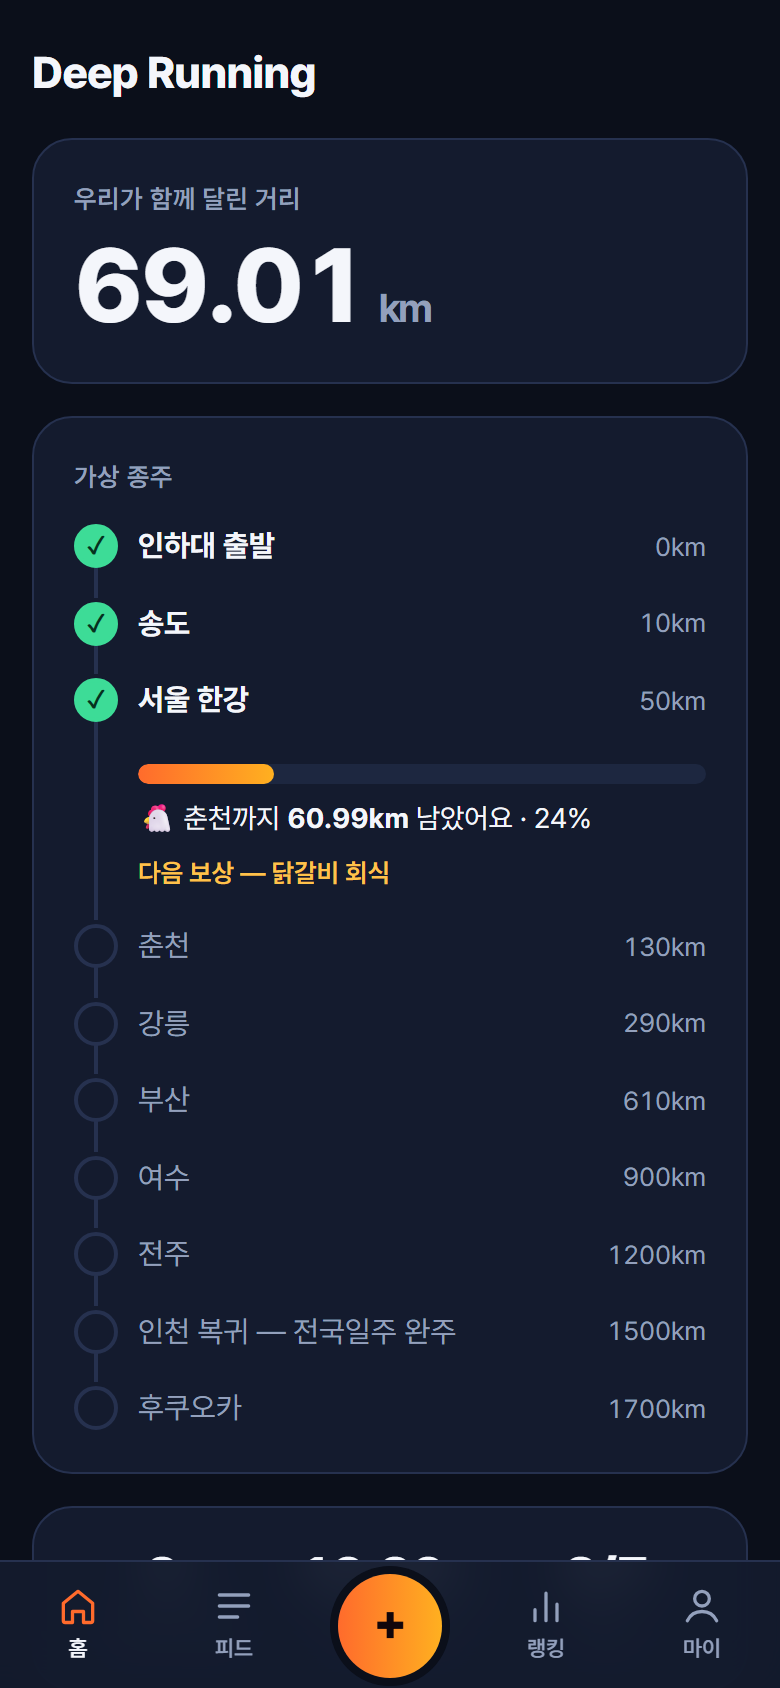
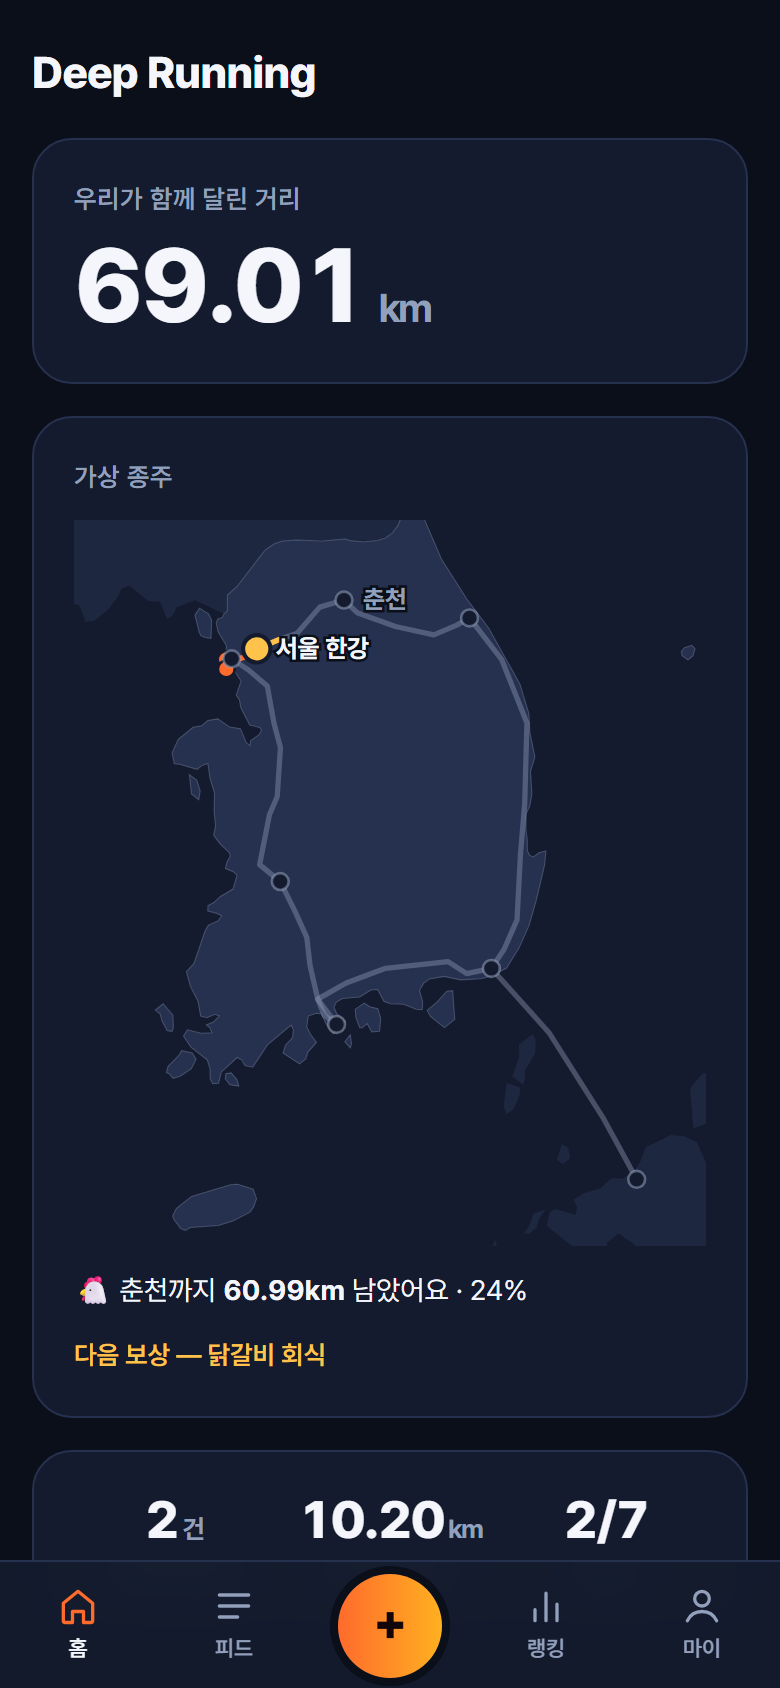
가상 종주를 실제 지도로 — 국토 SVG, 도로 경로 상수, 펜 애니메이션

diff --git a/src/lib/constants.ts b/src/lib/constants.ts
@@ -1,19 +1,53 @@
-export type Milestone = { km: number; place: string; reward: string; emoji: string }
+export type Milestone = { km: number; place: string; reward: string; emoji: string; x: number; y: number }
 
 /** 가상 종주 루트 (SPEC 6장). 거리는 도로 기준 대략값 — 멤버 투표로 바꾸려면 여기만 고치면 된다. */
 export const MILESTONES: Milestone[] = [
-  { km: 0, place: '인하대 출발', reward: '', emoji: '🏫' },
-  { km: 10, place: '송도', reward: '단체 프사 갱신', emoji: '🌉' },
-  { km: 50, place: '서울 한강', reward: '첫 도장 기념 러닝', emoji: '🌊' },
-  { km: 130, place: '춘천', reward: '닭갈비 회식', emoji: '🐔' },
-  { km: 290, place: '강릉', reward: '물회·바다 커피', emoji: '☕' },
-  { km: 610, place: '부산', reward: '돼지국밥·밀면', emoji: '🌃' },
-  { km: 900, place: '여수', reward: '밤바다 회식', emoji: '🌙' },
-  { km: 1200, place: '전주', reward: '비빔밥', emoji: '🍚' },
-  { km: 1500, place: '인천 복귀 — 전국일주 완주', reward: '시즌 피날레 파티', emoji: '🏁' },
+  { km: 0, place: '인하대 출발', reward: '', emoji: '🏫' , x: 144.4, y: 132.5 },
+  { km: 10, place: '송도', reward: '단체 프사 갱신', emoji: '🌉' , x: 144.6, y: 141.4 },
+  { km: 50, place: '서울 한강', reward: '첫 도장 기념 러닝', emoji: '🌊' , x: 173.5, y: 122.3 },
+  { km: 130, place: '춘천', reward: '닭갈비 회식', emoji: '🐔' , x: 256.3, y: 76 },
+  { km: 290, place: '강릉', reward: '물회·바다 커피', emoji: '☕' , x: 375.5, y: 93 },
+  { km: 610, place: '부산', reward: '돼지국밥·밀면', emoji: '🌃' , x: 396.3, y: 425.7 },
+  { km: 900, place: '여수', reward: '밤바다 회식', emoji: '🌙' , x: 249.3, y: 478.9 },
+  { km: 1200, place: '전주', reward: '비빔밥', emoji: '🍚' , x: 195.8, y: 343.3 },
+  { km: 1500, place: '인천 복귀 — 전국일주 완주', reward: '시즌 피날레 파티', emoji: '🏁' , x: 149.7, y: 131.8 },
   // 부산에서 직선 200km 건너 후쿠오카
-  { km: 1700, place: '후쿠오카', reward: '인하대 앞 일식집', emoji: '🍣' },
+  { km: 1700, place: '후쿠오카', reward: '인하대 앞 일식집', emoji: '🍣' , x: 534.2, y: 626 },
 ]
 
 /** 소모임 정원 — 홈 '참여 m/7명'에 쓴다 */
 export const CLUB_SIZE = 7
+
+/** korea.svg 뷰박스 (Natural Earth 50m 퍼블릭 도메인 → 메르카토르 투영) */
+export const MAP = { w: 600, h: 689 }
+
+/**
+ * 마일스톤 사이를 잇는 도로 경로. 좌표는 미리 뽑아 박아둔 상수다 —
+ * 런타임에 지도 API를 부르지 않는다 (SPEC 4.2, 6장).
+ * 인덱스 i = MILESTONES[i] → MILESTONES[i+1]
+ */
+export const ROUTE_SEGMENTS: [number, number][][] = [
+  // 인하대 출발 → 송도
+  [[144.4, 132.5], [144.6, 141.4]],
+  // 송도 → 서울 한강
+  [[144.6, 141.4], [151.3, 133.9], [165.8, 128.7], [173.5, 122.3]],
+  // 서울 한강 → 춘천
+  [[173.5, 122.3], [196, 113], [211.6, 107.7], [233.4, 82.7], [256.3, 76]],
+  // 춘천 → 강릉
+  [[256.3, 76], [268.8, 88], [305.2, 101.1], [341.6, 109], [363.4, 99.8], [375.5, 93]],
+  // 강릉 → 부산 (동해안)
+  [[375.5, 93], [406.1, 132.6], [430, 192.7], [427.9, 269.2], [423.8, 318.2], [420.6, 379.7], [408.2, 407.8], [396.3, 425.7]],
+  // 부산 → 여수 (남해안)
+  [[396.3, 425.7], [372.8, 430.7], [355.1, 419.3], [295.8, 425.6], [258.4, 439.6], [231.4, 454.9], [237.6, 470.1], [249.3, 478.9]],
+  // 여수 → 전주
+  [[249.3, 478.9], [231.4, 454.9], [224.1, 423.1], [221, 396.3], [209.5, 370.8], [195.8, 343.3]],
+  // 전주 → 인천 복귀
+  [[195.8, 343.3], [176.2, 327.2], [185.6, 279.6], [192.9, 262.8], [196, 216.1], [189.8, 192.7], [183.5, 157.5], [164.8, 141.8], [149.7, 131.8]],
+  // 인천 복귀 → 후쿠오카. 전국일주를 마치고 부산에서 대한해협을 건넌다
+  // (6장 표의 1700km는 '부산 → 직선 200km' 기준이라 선도 부산에서 뽑는다)
+  [[396.3, 425.7], [450.8, 486.5], [502.8, 568.4], [534.2, 626]],
+]
+
+/** 좌표 배열 → SVG path d */
+export const toPath = (points: [number, number][]) =>
+  'M' + points.map((p) => p.join(' ')).join('L')

diff --git a/src/components/Journey.tsx b/src/components/Journey.tsx
@@ -1,38 +1,82 @@
+import koreaSvg from '../assets/korea.svg?raw'
 import { journey, kmLabel } from '../lib/calc'
-import { MILESTONES } from '../lib/constants'
+import { MAP, MILESTONES, ROUTE_SEGMENTS, toPath } from '../lib/constants'
+
+// 저장소에 든 정적 SVG의 <path>만 꺼내 쓴다 (뷰박스는 우리가 그린다)
+const LAND = koreaSvg.replace(/^[\s\S]*?<svg[^>]*>/, '').replace(/<\/svg>[\s\S]*$/, '')
 
 export default function Journey({ totalKm }: { totalKm: number }) {
   const j = journey(totalKm)
+  const done = ROUTE_SEGMENTS.slice(0, j.currentIndex)
+  const now = j.next ? ROUTE_SEGMENTS[j.currentIndex] : null
+  // 인하대·송도처럼 두 도시가 붙어 있으면 라벨이 겹친다 — 다음 도시 라벨을 아래로 민다
+  const tight = j.next ? Math.hypot(j.next.x - j.current.x, j.next.y - j.current.y) < 50 : false
 
   return (
     <section className="card journey">
       <p className="card-label">가상 종주</p>
 
-      <ol className="jr-list">
-        {MILESTONES.map((m, i) => {
-          const done = i <= j.currentIndex
-          return (
-            <li className={`jr${done ? ' done' : ''}`} key={m.km}>
-              <span className="jr-dot">{done ? '✓' : ''}</span>
-              <span className="jr-place">{m.place}</span>
-              <span className="jr-km">{m.km}km</span>
+      <svg
+        className="map"
+        viewBox={`0 0 ${MAP.w} ${MAP.h}`}
+        role="img"
+        aria-label={`${j.current.place}까지 왔어요`}
+      >
+        <g dangerouslySetInnerHTML={{ __html: LAND }} />
 
-              {i === j.currentIndex && j.next && (
-                <div className="jr-now">
-                  <div className="jr-bar">
-                    <span style={{ width: `${(j.progress * 100).toFixed(1)}%` }} />
-                  </div>
-                  <p className="jr-note">
-                    {j.next.emoji} {j.next.place}까지 <b>{kmLabel(j.remainKm)}km</b> 남았어요 ·{' '}
-                    {Math.round(j.progress * 100)}%
-                  </p>
-                  {j.next.reward && <p className="jr-reward">다음 보상 — {j.next.reward}</p>}
-                </div>
-              )}
-            </li>
-          )
-        })}
-      </ol>
+        {ROUTE_SEGMENTS.map((seg, i) => (
+          <path className="route-rest" d={toPath(seg)} key={i} />
+        ))}
+
+        {done.length > 0 && (
+          <path className="route-done" d={done.map(toPath).join('')} pathLength={1} />
+        )}
+
+        {now && (
+          <path
+            className="route-now"
+            d={toPath(now)}
+            pathLength={1}
+            style={{ strokeDashoffset: 1 - j.progress }}
+          />
+        )}
+
+        {MILESTONES.map((m, i) => (
+          <circle
+            className={`dot${i <= j.currentIndex ? ' done' : ''}${i === j.currentIndex ? ' here' : ''}`}
+            cx={m.x}
+            cy={m.y}
+            r={i === j.currentIndex ? 13 : 8}
+            key={m.km}
+          />
+        ))}
+
+        {[j.current, j.next].map((m, i) =>
+          m ? (
+            <text
+              className={`pin${i === 0 ? ' pin-here' : ''}`}
+              x={m.x + (m.x > MAP.w * 0.6 ? -18 : 18)}
+              y={m.y + (i === 1 && tight ? 32 : 8)}
+              textAnchor={m.x > MAP.w * 0.6 ? 'end' : 'start'}
+              key={m.km}
+            >
+              {m.place}
+            </text>
+          ) : null,
+        )}
+      </svg>
+
+      {j.next ? (
+        <>
+          <p className="jr-note">
+            {j.next.emoji} {j.next.place}까지 <b>{kmLabel(j.remainKm)}km</b> 남았어요 ·{' '}
+            {Math.round(j.progress * 100)}%
+          </p>
+          {j.next.reward && <p className="jr-reward">다음 보상 — {j.next.reward}</p>}
+        </>
+      ) : (
+        <p className="jr-note">🏁 루트를 전부 돌았어요. 다음 시즌에서 만나요</p>
+      )}
     </section>
   )
 }

diff --git a/src/styles.css b/src/styles.css
@@ -464,67 +464,57 @@ h1, h2, h3, p { margin: 0; }
 
 .hero-unit { font-size: 20px; font-weight: 700; color: var(--sub); margin-left: 6px; }
 
-/* ---------- 가상 종주 ---------- */
+/* ---------- 가상 종주 (지도) ---------- */
 
-.journey { display: flex; flex-direction: column; gap: 14px; }
+.journey { display: flex; flex-direction: column; gap: 12px; }
 
-.jr-list { list-style: none; margin: 0; padding: 0; }
+.map { width: 100%; height: auto; display: block; }
 
-.jr {
-  position: relative;
-  display: grid;
-  grid-template-columns: 22px 1fr auto;
-  align-items: center;
-  gap: 10px;
-  padding-bottom: 16px;
+.map .land { fill: var(--line); stroke: var(--sub); stroke-width: 1; stroke-opacity: 0.35; }
+
+.map .land-far { fill: var(--surface2); stroke: none; }
+
+.route-rest,
+.route-done,
+.route-now {
+  fill: none;
+  stroke-width: 5;
+  stroke-linecap: round;
+  stroke-linejoin: round;
 }
 
-.jr:last-child { padding-bottom: 0; }
+.route-rest { stroke: var(--sub); stroke-opacity: 0.4; }
 
-/* 점을 잇는 세로 선 */
-.jr:not(:last-child)::before {
-  content: '';
-  position: absolute;
-  left: 10px;
-  top: 20px;
-  bottom: 2px;
-  width: 2px;
-  background: var(--line);
+.route-done {
+  stroke: var(--accent);
+  stroke-dasharray: 1;
+  animation: draw 1.1s ease-out;
 }
 
-.jr-dot {
-  width: 22px;
-  height: 22px;
-  border-radius: 50%;
-  border: 2px solid var(--line);
-  background: var(--surface);
-  display: flex;
-  align-items: center;
-  justify-content: center;
-  font-size: 12px;
-  font-weight: 800;
-  color: var(--sub);
-  z-index: 1;
+.route-now {
+  stroke: var(--gold);
+  stroke-dasharray: 1;
+  animation: draw 0.7s ease-out 0.9s backwards;
 }
 
-.jr.done .jr-dot { background: var(--good); border-color: var(--good); color: #06301F; }
+@keyframes draw { from { stroke-dashoffset: 1; } }
 
-.jr-place { color: var(--sub); font-size: 15px; }
+.dot { fill: var(--surface); stroke: var(--sub); stroke-width: 2.5; stroke-opacity: 0.55; }
 
-.jr.done .jr-place { color: var(--text); font-weight: 700; }
+.dot.done { fill: var(--accent); stroke: var(--surface); stroke-opacity: 1; }
 
-.jr-km { color: var(--sub); font-size: 13px; font-variant-numeric: tabular-nums; }
+.dot.here { fill: var(--gold); stroke: var(--surface); stroke-opacity: 1; stroke-width: 4; }
 
-.jr-now { grid-column: 2 / -1; margin-top: 10px; display: flex; flex-direction: column; gap: 7px; }
-
-.jr-bar {
-  height: 10px;
-  border-radius: 999px;
-  background: var(--surface2);
-  overflow: hidden;
+.pin {
+  fill: var(--sub);
+  font-size: 24px;
+  font-weight: 700;
+  paint-order: stroke;
+  stroke: var(--bg);
+  stroke-width: 5;
 }
 
-.jr-bar span { display: block; height: 100%; border-radius: 999px; background: var(--grad-run); }
+.pin-here { fill: var(--text); }
 
 .jr-note { font-size: 14px; }
 .jr-note b { font-variant-numeric: tabular-nums; }
